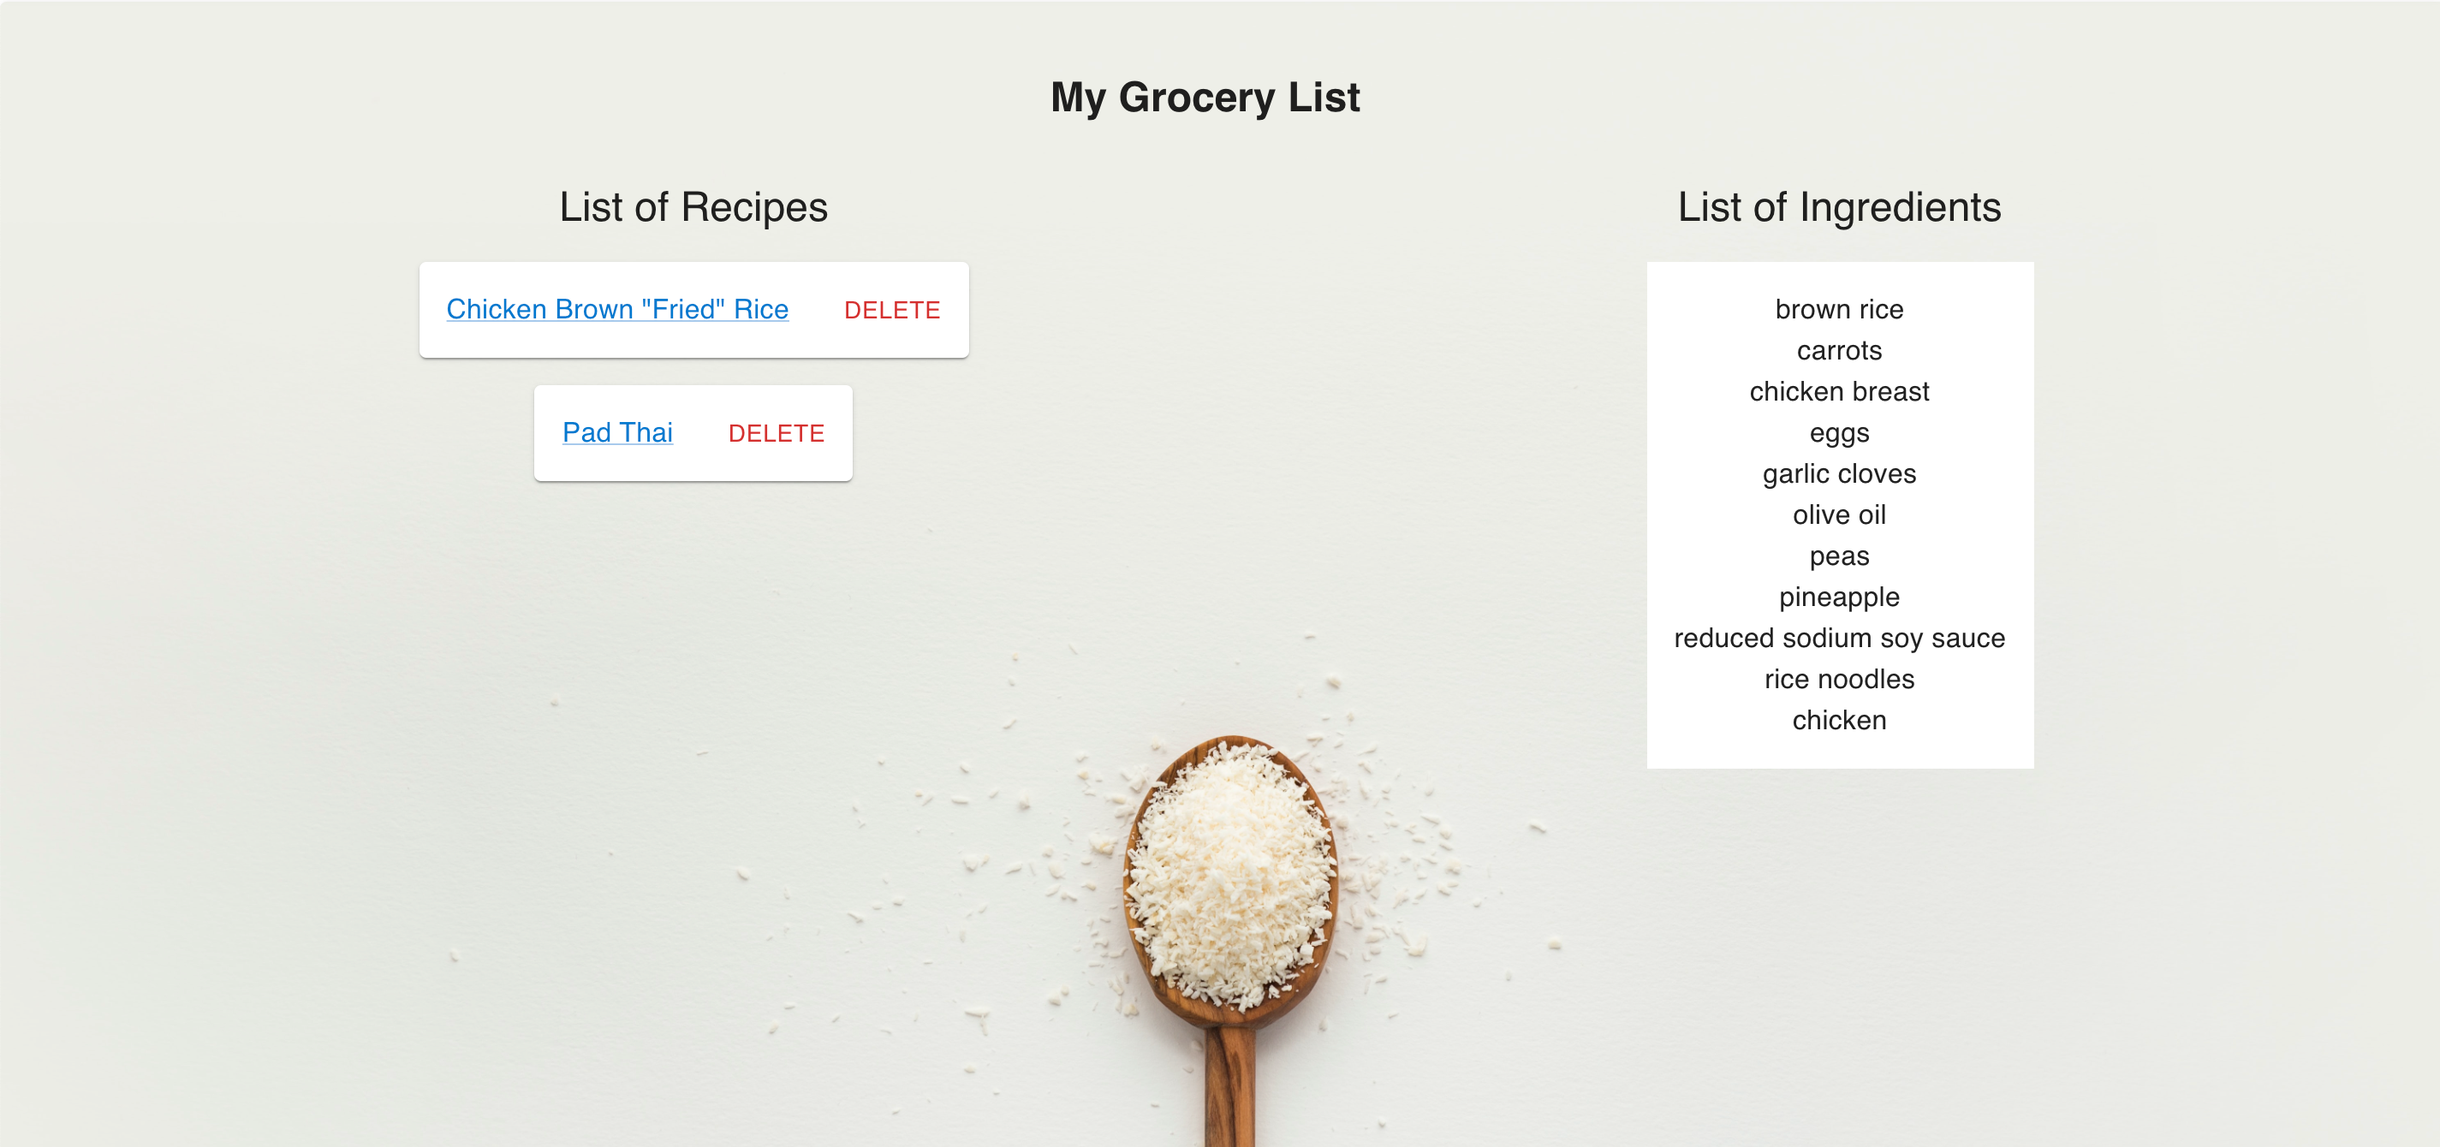
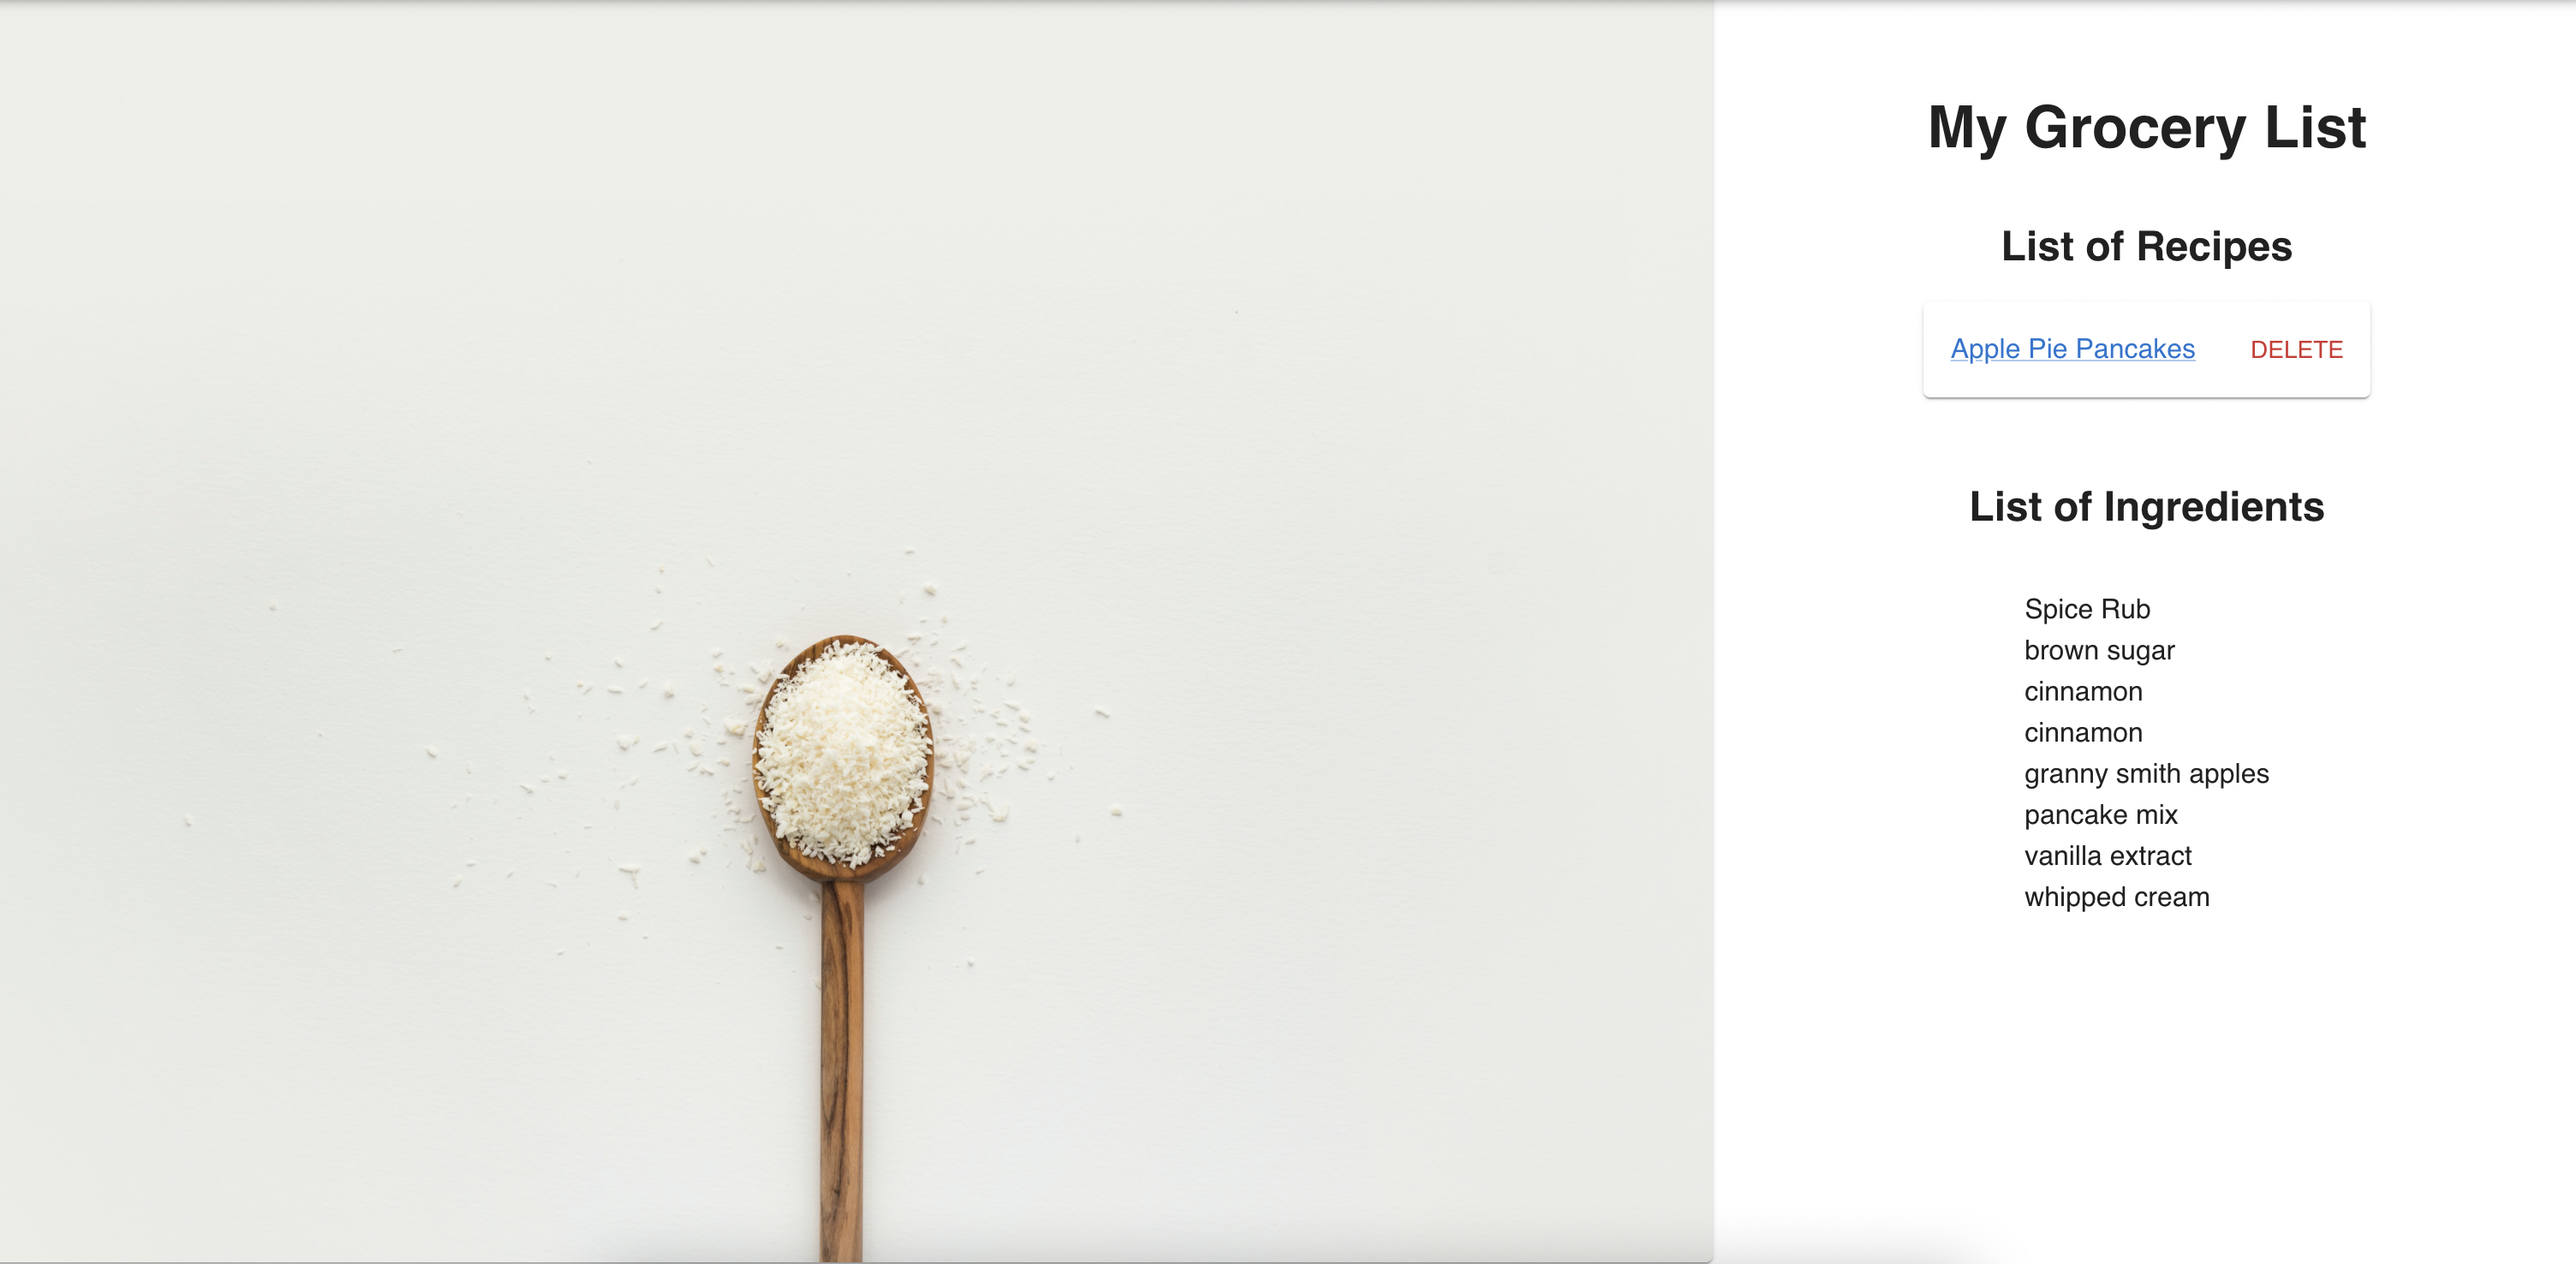
Styling updates across website

diff --git a/frontend/src/components/Index.jsx b/frontend/src/components/Index.jsx
@@ -54,7 +54,8 @@ const Index = () => {
                     display: "flex",
                     flexDirection: "column",
                     alignItems: "center",
-                  }}>
+                  }}
+                >
                   <TypeWriterEffect
                     p={10}
                     color="white"
@@ -98,7 +99,8 @@ const Index = () => {
                     justifyContent: "center",
                     alignItems: "center",
                     marginRight: 5,
-                  }}>
+                  }}
+                >
                   <CardContent sx={{ flexGrow: 1 }}>
                     <Typography variant="h5">Search Recipes </Typography>
                   </CardContent>
@@ -116,7 +118,8 @@ const Index = () => {
                     justifyContent: "center",
                     alignItems: "center",
                     marginLeft: 5,
-                  }}>
+                  }}
+                >
                   <CardContent sx={{ flexGrow: 1 }}>
                     <Typography variant="h5">Recipe Details </Typography>
                   </CardContent>
@@ -143,7 +146,8 @@ const Index = () => {
               <Grid
                 display="flex"
                 flexDirection="row"
-                justifyContent="space-around">
+                justifyContent="space-around"
+              >
                 <Card
                   sx={{
                     height: "100%",
@@ -152,7 +156,8 @@ const Index = () => {
                     justifyContent: "center",
                     alignItems: "center",
                     marginRight: 5,
-                  }}>
+                  }}
+                >
                   <CardContent sx={{ flexGrow: 1 }}>
                     <Typography variant="h5">Create Recipes </Typography>
                   </CardContent>
@@ -170,7 +175,8 @@ const Index = () => {
                     justifyContent: "center",
                     alignItems: "center",
                     marginLeft: 5,
-                  }}>
+                  }}
+                >
                   <CardContent sx={{ flexGrow: 1 }}>
                     <Typography variant="h5">View Your Recipes</Typography>
                   </CardContent>
@@ -197,7 +203,8 @@ const Index = () => {
               <Grid
                 display="flex"
                 flexDirection="row"
-                justifyContent="space-around">
+                justifyContent="space-around"
+              >
                 <Card
                   sx={{
                     height: "100%",
@@ -206,7 +213,8 @@ const Index = () => {
                     justifyContent: "center",
                     alignItems: "center",
                     marginRight: 5,
-                  }}>
+                  }}
+                >
                   <CardContent sx={{ flexGrow: 1 }}>
                     <Typography variant="h5">My Favourite Recipes</Typography>
                   </CardContent>
@@ -224,7 +232,8 @@ const Index = () => {
                     justifyContent: "center",
                     alignItems: "center",
                     marginLeft: 5,
-                  }}>
+                  }}
+                >
                   <CardContent sx={{ flexGrow: 1 }}>
                     <Typography variant="h5">My Grocery List</Typography>
                   </CardContent>

diff --git a/frontend/src/components/SearchForm.jsx b/frontend/src/components/SearchForm.jsx
@@ -10,7 +10,7 @@ import {
 } from "@mui/material";
 import SearchIcon from "@mui/icons-material/Search";
 import { useNavigate } from "react-router-dom";
-import Image from "../docs/background-option2.jpg";
+import Image from "../docs/user-pages-background.jpg";
 
 const styles = {
   paperContainer: {
@@ -53,7 +53,8 @@ const SearchForm = () => {
             display: "flex",
             flexDirection: "column",
             alignItems: "center",
-          }}>
+          }}
+        >
           <Box
             component="main"
             sx={{
@@ -62,7 +63,8 @@ const SearchForm = () => {
               display: "flex",
               flexDirection: "column",
               alignItems: "center",
-            }}>
+            }}
+          >
             <Typography variant="h4" fontWeight="bold">
               Search For Recipes
             </Typography>
@@ -77,7 +79,8 @@ const SearchForm = () => {
                 ":hover": {
                   boxShadow: 20,
                 },
-              }}>
+              }}
+            >
               <InputBase
                 sx={{ ml: 1, flex: 1 }}
                 placeholder="Enter Ingredients or Keywords"
@@ -88,7 +91,8 @@ const SearchForm = () => {
               <IconButton
                 onClick={showSearch}
                 sx={{ p: "10px" }}
-                aria-label="search">
+                aria-label="search"
+              >
                 <SearchIcon />
               </IconButton>
             </Paper>

diff --git a/frontend/src/components/GroceryList.jsx b/frontend/src/components/GroceryList.jsx
@@ -11,7 +11,7 @@ const styles = {
     backgroundPosition: "center",
     backgroundSize: "cover",
     backgroundRepeat: "no-repeat",
-    overflow: "hidden",
+    // overflow: "hidden",
     height: "100%",
   },
 };
@@ -46,9 +46,9 @@ const GroceryList = ({ user }) => {
             component="main"
             sx={{
               paddingTop: 8,
-              flexWrap: "wrap",
-              minHeight: "92.5vh",
-              overflow: "hidden",
+              flexGrow: 1,
+              height: "92.5vh",
+              overflow: "auto",
               alignContent: "center",
               justifyContent: "center",
             }}

diff --git a/frontend/src/components/SearchResults.jsx b/frontend/src/components/SearchResults.jsx
@@ -15,7 +15,7 @@ import {
 } from "@mui/material";
 import SearchIcon from "@mui/icons-material/Search";
 import { useNavigate } from "react-router-dom";
-import Image from "../docs/background-option2.jpg";
+import Image from "../docs/user-pages-background.jpg";
 
 const styles = {
   paperContainer: {
@@ -153,6 +153,7 @@ const SearchForm = () => {
               direction="row"
               justifyContent="center"
               alignItems="center"
+              textAlign="center"
             >
               {recipeData.length
                 ? recipeData

diff --git a/frontend/src/components/MyRecipes.jsx b/frontend/src/components/MyRecipes.jsx
@@ -13,7 +13,7 @@ import {
   Paper,
   Typography,
 } from "@mui/material";
-import Image from "../docs/user-pages-background.jpg";
+import Image from "../docs/burger.jpeg";
 import { useNavigate } from "react-router-dom";
 
 const styles = {
@@ -74,7 +74,7 @@ const MyRecipes = ({ user }) => {
             sx={{
               p: 5,
               flexGrow: 1,
-              height: "93vh",
+              height: "95vh",
               overflow: "auto",
             }}
           >

diff --git a/frontend/src/components/Favourites.jsx b/frontend/src/components/Favourites.jsx
@@ -13,7 +13,7 @@ import {
   Paper,
   Typography,
 } from "@mui/material";
-import Image from "../docs/user-pages-background.jpg";
+import Image from "../docs/burger.jpeg";
 
 const styles = {
   paperContainer: {
@@ -68,7 +68,7 @@ const Favourites = ({ user }) => {
             sx={{
               p: 5,
               flexGrow: 1,
-              height: "93vh",
+              height: "95vh",
               overflow: "auto",
             }}
           >
